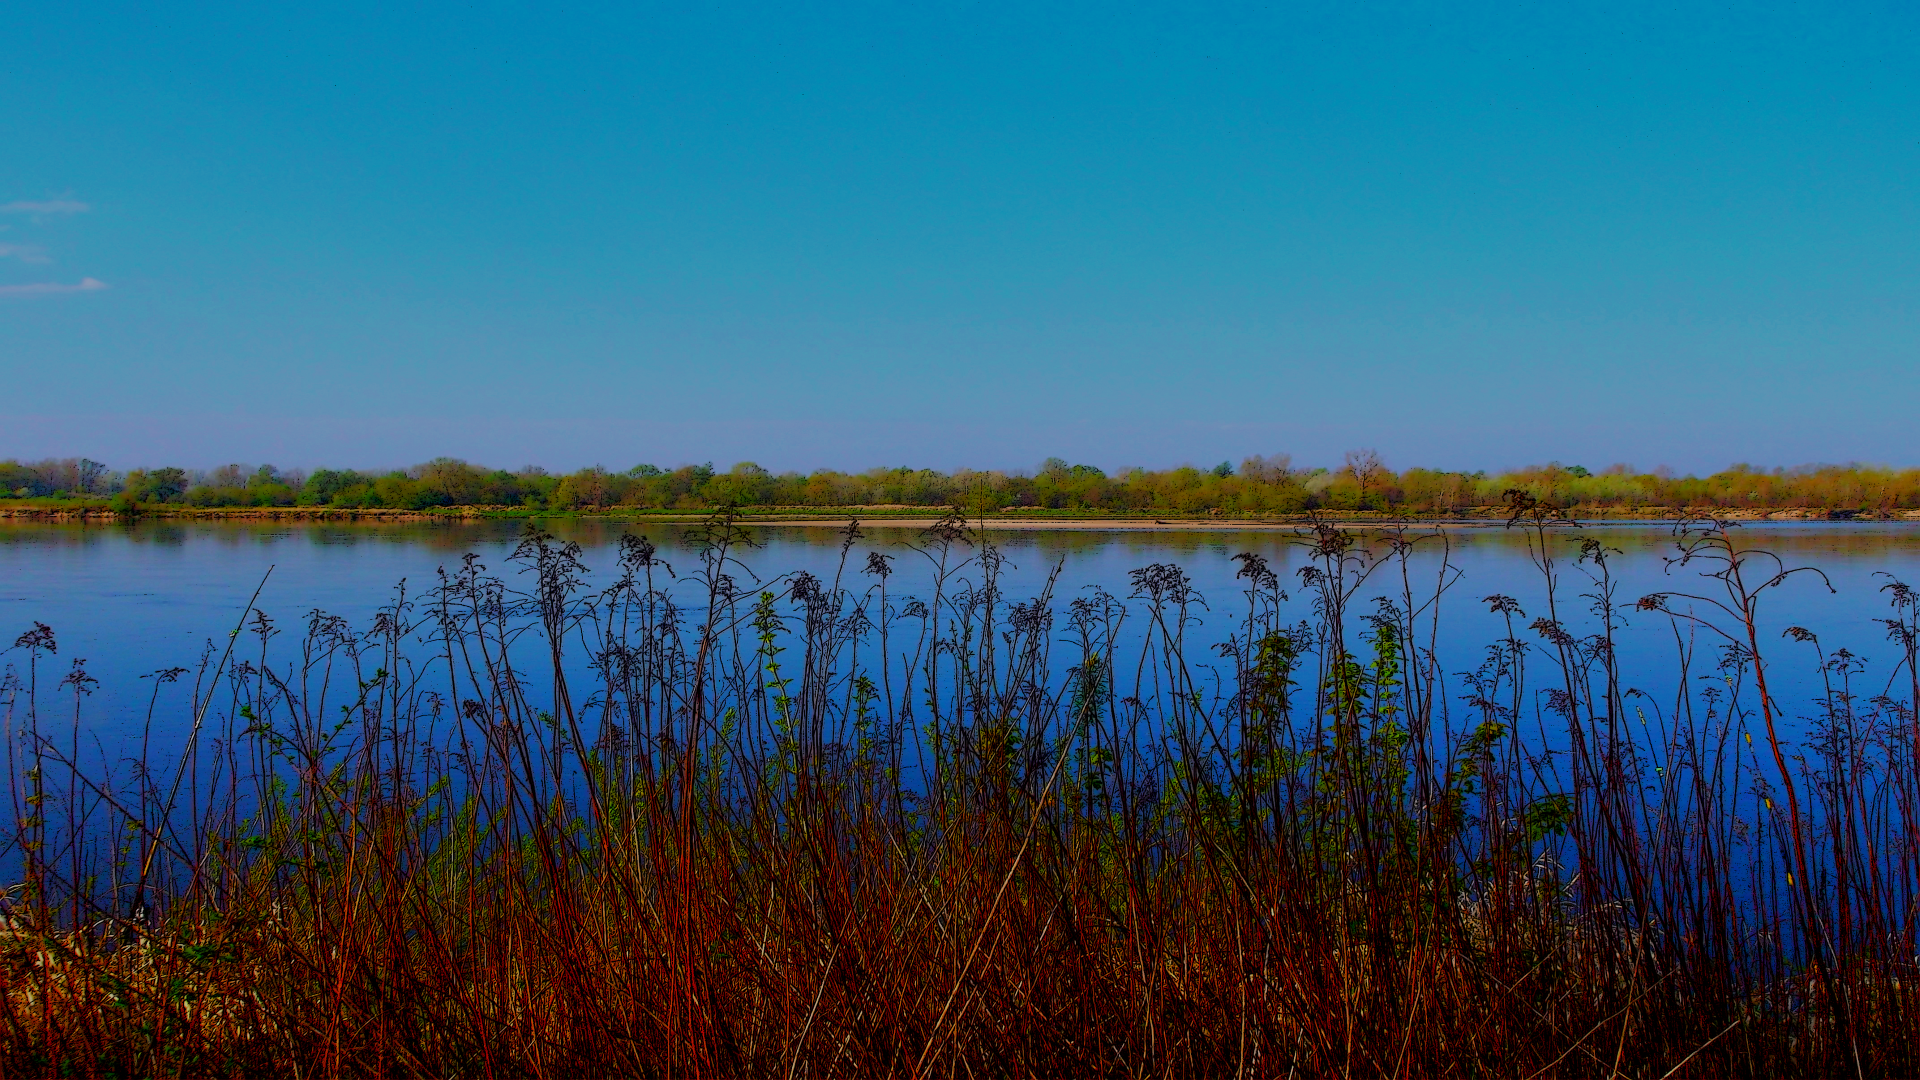
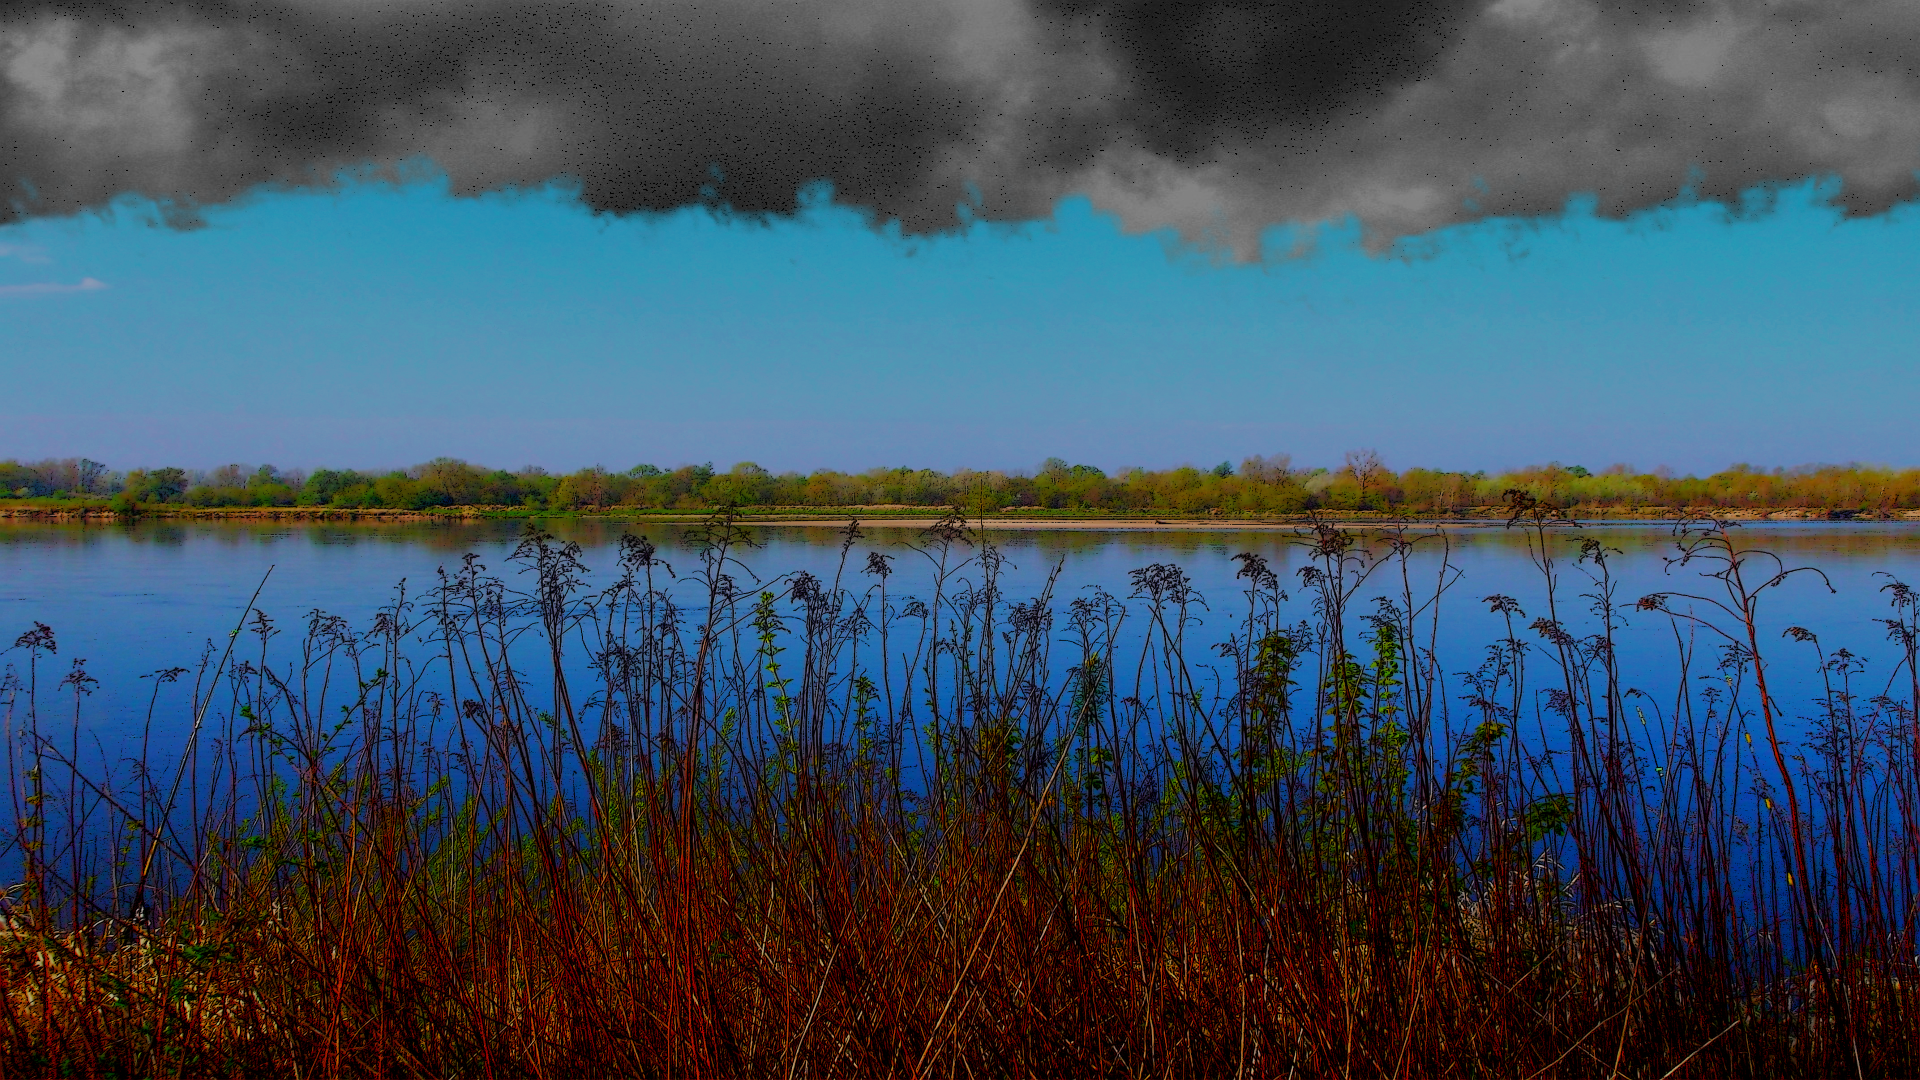
23 - adding clouds, reworking rain
23 - adding clouds, reowrking rain other adjustments

Changed region(s): [[0.0, 0.0, 1.0, 0.2444]]

diff --git a/core/src/com/mygdx/game/Screens/MenuScreen.java b/core/src/com/mygdx/game/Screens/MenuScreen.java
@@ -30,8 +30,10 @@ public class MenuScreen extends  AbstractScreen {
 
     private Texture menuBackground;
     private Texture dropImage;
+    private Texture cloud1;
     private Array<Rectangle> drops;
     private Array<Rectangle> dropsBackground;
+    private Array<Rectangle> dropsFarBackground;
     private TextButton startGameButton;
     private TextButton optionsButton;
     private TextButton exitGameButton;
@@ -46,8 +48,10 @@ public class MenuScreen extends  AbstractScreen {
         super(game);
         menuBackground = new Texture(Gdx.files.internal("menuBackground.png"));
         dropImage = new Texture(Gdx.files.internal("drop1.png"));
+        cloud1 = new Texture(Gdx.files.internal("cloud1.png"));
         drops = new Array<Rectangle>();
         dropsBackground = new Array<Rectangle>();
+        dropsFarBackground = new Array<Rectangle>();
 
         settingButtons();
         createBasicSkin();
@@ -61,8 +65,10 @@ public class MenuScreen extends  AbstractScreen {
         super.render(delta);
         spriteBatch.begin();
         spriteBatch.draw(menuBackground, 0, 0);
+        spriteBatch.draw(cloud1, -700, 800);
         drawingDrops();
         drawingDropsBackground();
+        drawingDropsFarBackground();
         spriteBatch.end();
 
         stage.act();
@@ -70,8 +76,10 @@ public class MenuScreen extends  AbstractScreen {
 
         makingRain();
         makingRainBackground();
+        makingRainFarBackground();
         removingDrops();
         removingDropsBackground();
+        removingDropsFarBackground();
     }
 
     @Override
@@ -79,6 +87,7 @@ public class MenuScreen extends  AbstractScreen {
         super.dispose();
         menuBackground.dispose();
         dropImage.dispose();
+        cloud1.dispose();
     }
 
     private void createBasicSkin(){
@@ -109,10 +118,10 @@ public class MenuScreen extends  AbstractScreen {
 
     private void makingRain() {
         int n = 0;
-        while(n < 40){
+        while(n < 35){
             Rectangle dropp = new Rectangle();
             dropp.x = MathUtils.random(-580, 1920 - 16);
-            dropp.y = 1080;
+            dropp.y = MathUtils.random(900,1050);
             dropp.width = 8;
             dropp.height = 8;
             drops.add(dropp);
@@ -123,13 +132,27 @@ public class MenuScreen extends  AbstractScreen {
 
     private void makingRainBackground() {
         int n = 0;
-        while(n < 40){
+        while(n < 30){
             Rectangle dropp2 = new Rectangle();
             dropp2.x = MathUtils.random(-580, 1920 - 16);
-            dropp2.y = 1080;
-            dropp2.width = 8;
-            dropp2.height = 8;
+            dropp2.y = MathUtils.random(850,1030);
+            dropp2.width = 4;
+            dropp2.height = 4;
             dropsBackground.add(dropp2);
+            timeOfLastDrop = TimeUtils.millis();
+            n++;
+        }
+    }
+
+    private void makingRainFarBackground() {
+        int n = 0;
+        while(n < 20){
+            Rectangle dropp3 = new Rectangle();
+            dropp3.x = MathUtils.random(0, 1920 + 580);
+            dropp3.y = MathUtils.random(800,1000);
+            dropp3.width = 2;
+            dropp3.height = 2;
+            dropsFarBackground.add(dropp3);
             timeOfLastDrop = TimeUtils.millis();
             n++;
         }
@@ -144,6 +167,12 @@ public class MenuScreen extends  AbstractScreen {
     private void drawingDropsBackground() {
         for(Rectangle dropp2: dropsBackground) {
             spriteBatch.draw(dropImage, dropp2.x, dropp2.y);
+        }
+    }
+
+    private void drawingDropsFarBackground() {
+        for(Rectangle dropp3: dropsFarBackground) {
+            spriteBatch.draw(dropImage, dropp3.x, dropp3.y);
         }
     }
 
@@ -163,7 +192,17 @@ public class MenuScreen extends  AbstractScreen {
             Rectangle dropp2 = iter.next();
             dropp2.x += 1 * Gdx.graphics.getDeltaTime();
             dropp2.y -= 981 * Gdx.graphics.getDeltaTime();
-            if(dropp2.y + 64 < MathUtils.random(0,550)) iter.remove();
+            if(dropp2.y + 64 < MathUtils.random(0,450)) iter.remove();
+        }
+    }
+
+    private void removingDropsFarBackground() {
+        Iterator<Rectangle> iter = dropsFarBackground.iterator();
+        while(iter.hasNext()) {
+            Rectangle dropp3 = iter.next();
+            dropp3.x -= 450 * Gdx.graphics.getDeltaTime();
+            dropp3.y -= 981 * Gdx.graphics.getDeltaTime();
+            if(dropp3.y + 64 < MathUtils.random(0,750)) iter.remove();
         }
     }
 

diff --git a/core/src/com/mygdx/game/Screens/SentencesScreens/PrologueSentence.java b/core/src/com/mygdx/game/Screens/SentencesScreens/PrologueSentence.java
@@ -1,16 +1,23 @@
 package com.mygdx.game.Screens.SentencesScreens;
 
+import com.badlogic.gdx.Gdx;
 import com.badlogic.gdx.graphics.Color;
+import com.badlogic.gdx.graphics.Texture;
 import com.badlogic.gdx.graphics.g2d.BitmapFont;
 import com.badlogic.gdx.math.Interpolation;
+import com.badlogic.gdx.math.Rectangle;
 import com.mygdx.game.ForgottenLife;
 import com.mygdx.game.Screens.AbstractScreen;
+
+import java.util.Iterator;
 
 /**
  * Created by Roxven89 on 31.05.2017.
  */
 
 public class PrologueSentence extends AbstractScreen {
+    private Texture fallingLeaf;
+    private Rectangle leaf;
     private final String prologueName = "PROLOGUE";
     private final String prologueSentence = "\"We forget old stories, but those stories remain the same.\"";
     private final String sentenceAuthor = "\"- Dejan Stojanovic, The Sun Watches The Sun\"";
@@ -25,45 +32,60 @@ public class PrologueSentence extends AbstractScreen {
 
     public PrologueSentence(ForgottenLife game) {
         super(game);
+
+        fallingLeaf = new Texture(Gdx.files.internal("leaf.png"));
+        leaf = new Rectangle();
+        leaf.x = (int) ForgottenLife.WIDTH / 6f;
+        leaf.y = (int) ForgottenLife.HEIGHT / 1f;
+        leaf.width = 100;
+        leaf.height = 100;
+
         fontSizePrologue = ForgottenLife.WIDTH / 20;
         fontSizeSentence = ForgottenLife.WIDTH / 30;
         fontSizeAuthor = ForgottenLife.WIDTH / 40;
+
         FADE_IN_TIME = 1f;
         SUBTITLE_FADE_DELAY = 0.5f;
         MORE_SUBTITLE_FADE_DELAY = 1.2f;
+
         parameter.size = fontSizePrologue;
         wordArtPrologue = generator.generateFont(parameter);
         parameter.size = fontSizeSentence;
         wordArtSentence = generator.generateFont(parameter);
         parameter.size = fontSizeAuthor;
         wordArtAuthor = generator.generateFont(parameter);
+
         fadeElapsed = 0;
     }
 
     @Override
-    public void render(float delta){
+    public void render(float delta) {
         super.render(delta);
         spriteBatch.begin();
+        spriteBatch.draw(fallingLeaf, leaf.x, leaf.y);
         drawingPrologueName();
         drawingPrologueSentence();
         drawingSentenceAuthor();
         spriteBatch.end();
 
         fadeElapsed += delta / delay;
+
+        drawingFallingLeaf();
     }
 
     @Override
-    public void dispose(){
+    public void dispose() {
         super.dispose();
         wordArtPrologue.dispose();
         wordArtSentence.dispose();
         wordArtAuthor.dispose();
+        fallingLeaf.dispose();
     }
 
     private void drawingPrologueName() {
         fade1 = Interpolation.fade.apply(fadeElapsed / FADE_IN_TIME);
         wordArtPrologue.setColor(new Color(Color.rgba8888(1, 0.6f, 0, fade1)));
-        wordArtPrologue.draw(spriteBatch, prologueName, (ForgottenLife.WIDTH / 2.7f) , ForgottenLife.HEIGHT / episodHightPosition);
+        wordArtPrologue.draw(spriteBatch, prologueName, (ForgottenLife.WIDTH / 2.7f), ForgottenLife.HEIGHT / episodHightPosition);
     }
 
     private void drawingPrologueSentence() {
@@ -76,5 +98,16 @@ public class PrologueSentence extends AbstractScreen {
         fade3 = Interpolation.fade.apply((fadeElapsed - MORE_SUBTITLE_FADE_DELAY) / SUBTITLE_FADE_DELAY);
         wordArtAuthor.setColor(new Color(Color.argb8888(1, 1, 1, fade3)));
         wordArtAuthor.draw(spriteBatch, sentenceAuthor, ForgottenLife.WIDTH / 2.4f, ForgottenLife.HEIGHT / authorHightPosition);
+    }
+
+    private void drawingFallingLeaf() {
+        if(leaf.x < 500){
+            leaf.x += (50 ) * Gdx.graphics.getDeltaTime();
+            leaf.y -= (100 ) * Gdx.graphics.getDeltaTime();
+        }
+        if(leaf.x >= 500 && leaf.x <= 650){
+            leaf.x += 25 * Gdx.graphics.getDeltaTime();
+            leaf.y += 10 * Gdx.graphics.getDeltaTime();
+        }
     }
 }
